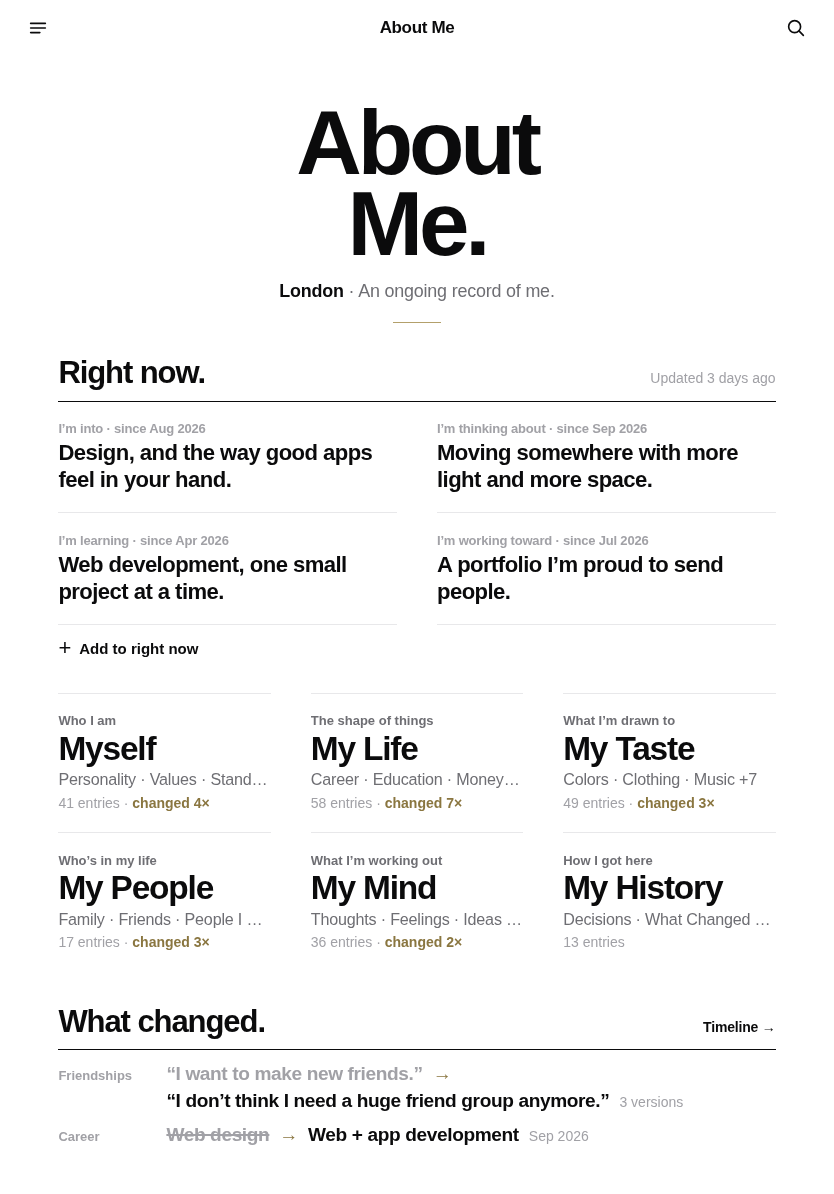
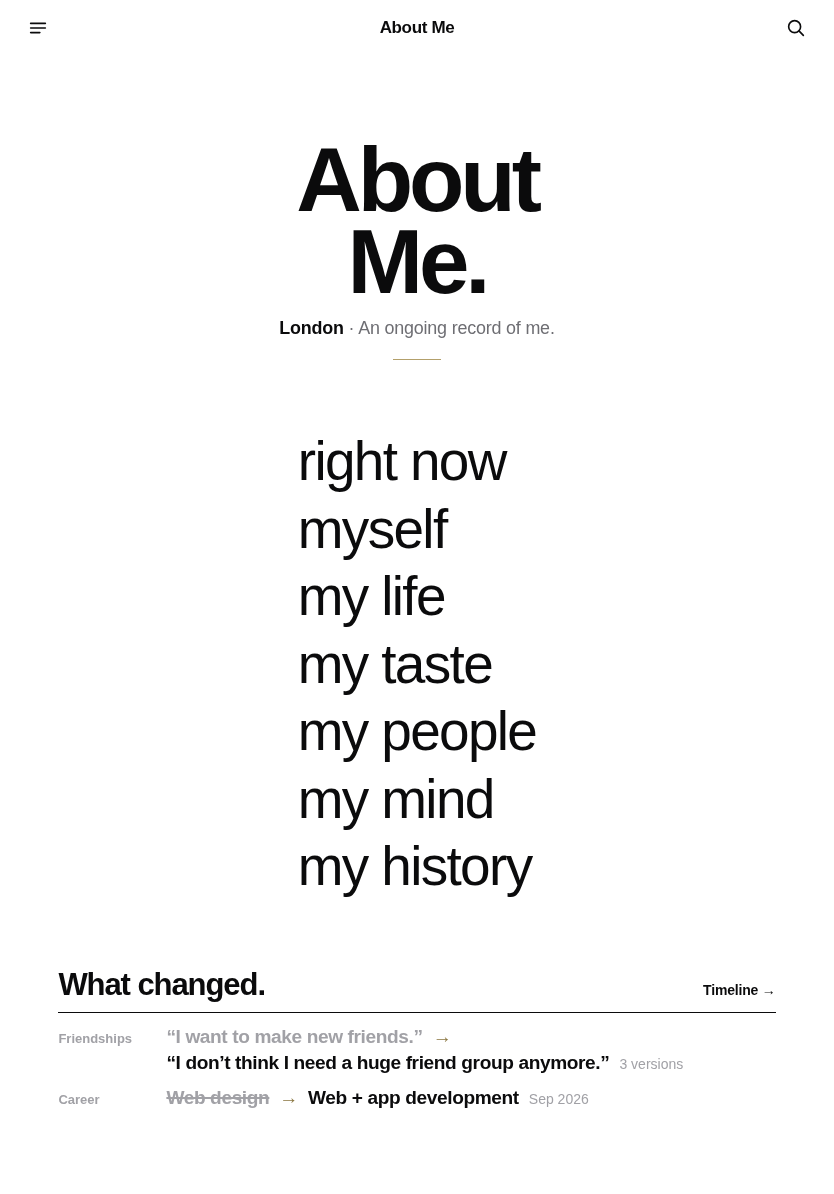
Replace home chapter grid with a plain launcher-style list
The home screen now lists right now and the six chapters as plain
lowercase words, and Right Now moves to its own one-screen page.

Claude-Session: https://claude.ai/code/session_01B2jaZ1SNYJtGLSRg6z58ic

diff --git a/index.html b/index.html
@@ -93,7 +93,6 @@ p { margin: 0; }
     border-right: 1px solid var(--rule);
   }
   .main { padding-inline: clamp(40px, 5vw, 80px); }
-  .home .book { display: none; }                    /* the sidebar is the index now */
   .home { align-content: center !important; gap: clamp(16px, 3.2vh, 64px) !important; }
   .home .statement h1 span { display: inline; }            /* one line in landscape */
   .home .statement h1 { font-size: clamp(56px, 11vh, 132px); }
@@ -140,13 +139,14 @@ p { margin: 0; }
 .add-line { justify-self: start; display: inline-flex; align-items: center; gap: 8px; font: 600 15px/1 var(--sans); color: var(--ink); padding: 12px 0 0; }
 .add-line::before { content: "+"; font: 400 22px/1 var(--sans); }
 
-.book { display: grid; grid-template-columns: repeat(3, minmax(0, 1fr)); column-gap: 40px; align-content: center; }
-.ch { display: grid; align-content: start; gap: 3px; min-width: 0; padding-block: clamp(12px, 1.6vh, 26px); border-top: 1px solid var(--rule); }
-.ch h2 { font: 800 clamp(24px, 2.8vh, 42px)/1 var(--sans); letter-spacing: -.035em; transition: transform .2s; }
-.ch:hover h2 { transform: translateX(3px); }
-.ch .contents { font: 500 clamp(14px, 1.35vh, 17px)/1.4 var(--sans); color: var(--muted); white-space: nowrap; overflow: hidden; text-overflow: ellipsis; }
-.ch .label { white-space: nowrap; overflow: hidden; text-overflow: ellipsis; }
-.ch .meta b { font-weight: 600; color: var(--gold-ink); }
+/* Home contents: a plain launcher list, one word per line */
+.launcher { justify-self: center; align-self: center; }
+.launcher ul { margin: 0; padding: 0; list-style: none; display: grid; gap: clamp(2px, .5vh, 8px); }
+.launcher a {
+  display: inline-block; font: 500 clamp(34px, 4.6vh, 64px)/1.12 var(--sans); letter-spacing: -.03em;
+  color: var(--ink); text-transform: lowercase; transition: color .15s, transform .2s;
+}
+.launcher a:hover { color: var(--muted); transform: translateX(4px); }
 
 .latest { display: grid; gap: 12px; }
 .latest .rows { display: grid; gap: 10px; }
@@ -228,7 +228,7 @@ p { margin: 0; }
 .results .empty { padding: 16px 14px; color: var(--muted); }
 
 @media (max-width: 520px) {
-  .now-grid ul, .book { grid-template-columns: 1fr; }
+  .now-grid ul { grid-template-columns: 1fr; }
 }
 @media (prefers-reduced-motion: reduce) { * { transition: none !important; } }
 </style>
@@ -332,19 +332,11 @@ function homeHTML() {
       <p class="sub"><b>${esc(person.name)}</b> · ${esc(person.line)}</p>
     </header>
 
-    <section class="now-grid" id="now" aria-labelledby="nowLabel">
-      <div class="block-head"><h2 id="nowLabel">Right now.</h2><span class="meta">Updated 3 days ago</span></div>
-      <ul>${rightNow.map(r => `<li><span class="lead">${r.lead} · since ${r.since}</span><p class="sentence">${esc(r.text[0].toUpperCase() + r.text.slice(1))}</p></li>`).join("")}</ul>
-      <button class="add-line" type="button">Add to right now</button>
-    </section>
-
-    <nav class="book" aria-label="Chapters">
-      ${chapters.map(c => `<a class="ch" href="#${c.id}">
-        <span class="label">${esc(c.tagline)}</span>
-        <h2>${esc(c.title)}</h2>
-        <p class="contents">${c.parts.slice(0, 3).map(p => esc(p[0])).join(" · ")}${c.parts.length > 3 ? ` +${c.parts.length - 3}` : ""}</p>
-        <p class="meta">${c.entries} entries${c.changes ? ` · <b>changed ${c.changes}×</b>` : ""}</p>
-      </a>`).join("")}
+    <nav class="launcher" aria-label="Contents">
+      <ul>
+        <li><a href="#now">Right now</a></li>
+        ${chapters.map(c => `<li><a href="#${c.id}">${esc(c.title)}</a></li>`).join("")}
+      </ul>
     </nav>
 
     <section class="latest" aria-labelledby="latelyLabel">
@@ -353,6 +345,20 @@ function homeHTML() {
         <p class="row"><span class="topic">${thread.topic}</span><span><span class="old">“${esc(thread.steps[0].quote)}”</span><span class="to">→</span><span>“${esc(thread.steps[last].quote)}”</span><span class="meta">${thread.steps.length} versions</span></span></p>
         <p class="row"><span class="topic">${change.topic}</span><span><span class="was">${esc(change.was)}</span><span class="to">→</span><span>${esc(change.is)}</span><span class="meta">${change.date}</span></span></p>
       </div>
+    </section>
+  </div>`;
+}
+
+function nowHTML() {
+  return `<div class="home now-page">
+    <header class="statement">
+      <span class="eyebrow">Updated 3 days ago</span>
+      <h1>Right now.</h1>
+      <p class="sub"><b>${rightNow.length} things</b> · what I’m into, thinking about, learning and working toward</p>
+    </header>
+    <section class="now-grid" aria-label="Right now">
+      <ul>${rightNow.map(r => `<li><span class="lead">${r.lead} · since ${r.since}</span><p class="sentence">${esc(r.text[0].toUpperCase() + r.text.slice(1))}</p></li>`).join("")}</ul>
+      <button class="add-line" type="button">Add to right now</button>
     </section>
   </div>`;
 }
@@ -411,7 +417,7 @@ function render() {
   const raw = location.hash.slice(1) || "home";
   const chapter = chapters.find(c => c.id === raw);
   const route = chapter ? raw : raw === "now" ? "now" : "home";
-  $("#main").innerHTML = chapter ? chapterHTML(chapter) : homeHTML();
+  $("#main").innerHTML = chapter ? chapterHTML(chapter) : route === "now" ? nowHTML() : homeHTML();
   $("#sideNav").innerHTML = navHTML(route);
   $("#drawerNav").innerHTML = navHTML(route);
   $("#context").innerHTML = contextHTML(route);

diff --git a/DESIGN.md b/DESIGN.md
@@ -29,20 +29,23 @@ Note: a 1200pt canvas is wider than any real iPad (13" iPad Pro is 1032 × 1376p
 
 1. **Top bar** (56pt): Menu · About Me · Search
 2. **Statement**: **About / Me.** on two lines, centered, 800 weight, then **London** · An ongoing record of me., then a short gold hairline.
-3. **Right now.**: a 2 × 2 grid. Each cell has a grey lead-in with date ("I'm into · since Aug 2026") and a bold sentence. Then **+ Add to right now**.
-4. **Chapters**: a 3 × 2 grid of type only, with no boxes: tagline, big title (Myself), the first three parts plus a count, and "41 entries · changed 4×". Each block is a tap target.
-5. **What changed.**: two lines. Friendships: first version → latest version (3 versions). Career: ~~Web design~~ → Web + app development.
+3. **Contents list**: a plain list, like a minimal phone launcher. One lowercase word per line, 500 weight, ~34–64pt, left-aligned in a centred block, with no icons, boxes or counts: right now · myself · my life · my taste · my people · my mind · my history. Each word opens its page.
+4. **What changed.**: two lines. Friendships: first version → latest version (3 versions). Career: ~~Web design~~ → Web + app development.
 
 ## 3. Landscape home: "the archive" (one screen)
 
 - **Top bar** across the full width: About Me (left) · Search · ⋯ (right)
 - **Left, 232pt, sidebar**: About Me, Right Now, and the six chapters with counts. This replaces the chapter grid.
-- **Centre**: the statement on one line (**About Me.**) and the Right now. grid, vertically centered.
+- **Centre**: the statement on one line (**About Me.**) and the same contents list, vertically centred.
 - **Right, 300pt, What changed**: the full Friendships thread (three dated versions, the newest marked *now*) and the Career before → after with the *why*. On a chapter page this panel shows that chapter's changes.
 - So the three columns read: where to go · who I am now · how I got here. The earlier "Currently" panel was cut because it repeated Right now. word for word, which the no-scroll screen has no room for.
 - Between 900 and 1100pt wide (split view) there's no right panel, so the two-line What changed. strip returns to the centre.
 
 Content and features are the same as portrait. Only the arrangement changes.
+
+## 3a. Right now page (one screen)
+
+Right Now has its own page (`#now`): the statement **Right now.**, then the four sentences in a 2 × 2 grid (a grey lead-in with the date, and a bold sentence), then **+ Add to right now**.
 
 ## 3b. Chapter pages (one screen)
 
